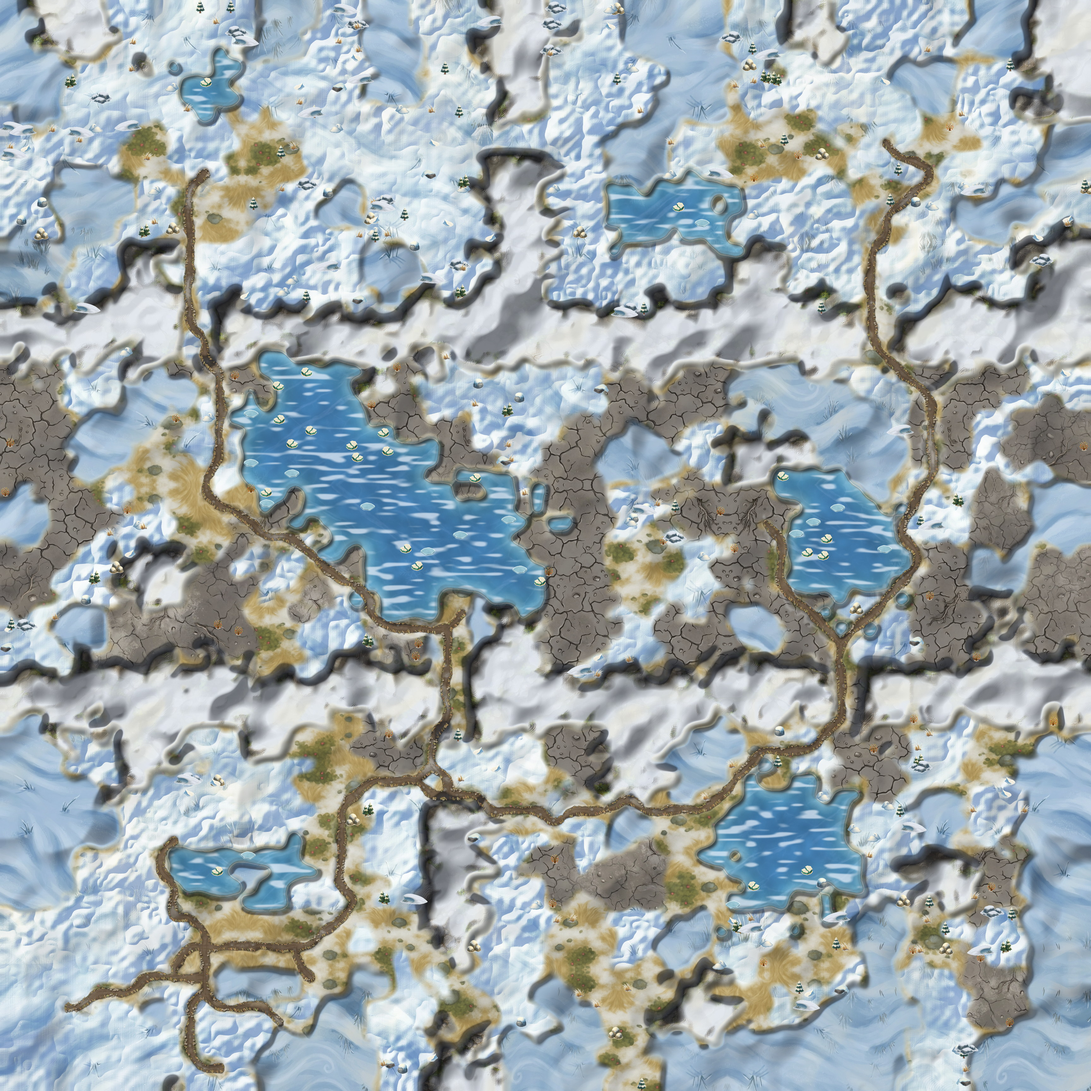
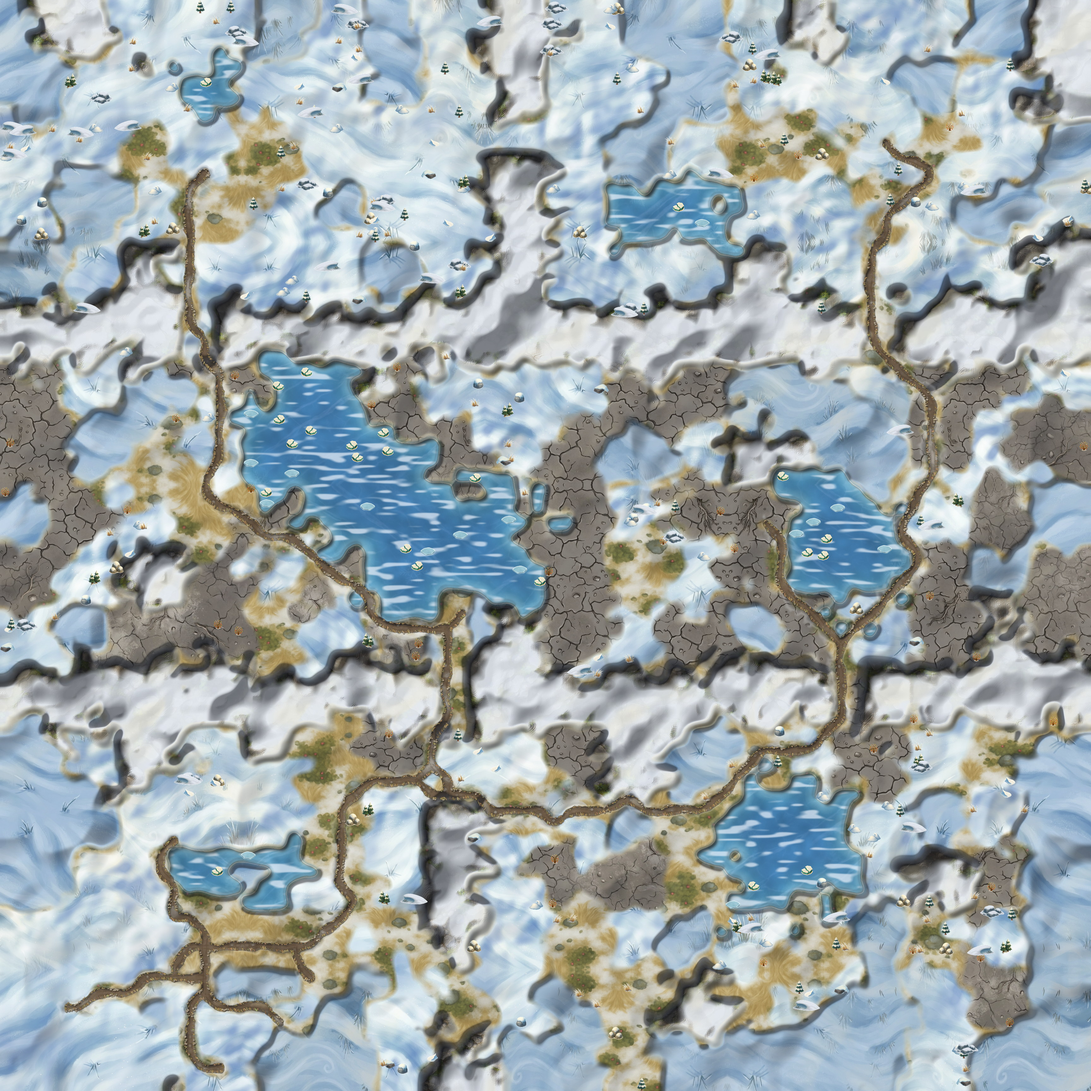
Ilustracje kampanii i wyniku z OpenAI (wsad)
Claude-Session: https://claude.ai/code/session_01Qu47Qn6gy3U54smkJJnCXL

diff --git a/src/data/plansza-teren-twierdza.ts b/src/data/plansza-teren-twierdza.ts
@@ -424,7 +424,8 @@ export const USTAWIENIA = {
   "osadzZnajdzki": 0.2,
   "skalaStrazy": 1.2,
   "bezOzdobTrawy": true,
-  "skalaZamku": 1.8,
+  "skalaZamku": 1.5,
+  "skalaBudowli": 1.3,
   "skalaKepLasu": 0.76,
   "cienBudowli": {
     "szer": 0.7,

diff --git a/tools/teren_efekty.py b/tools/teren_efekty.py
@@ -32,7 +32,8 @@ def _obraz(tab: np.ndarray) -> Image.Image:
     return Image.fromarray(tab.clip(0, 255).astype(np.uint8), 'RGB')
 
 
-def zaspy(warstwa: Image.Image, kafel: int, ziarno: int, zmienne: bool = False) -> Image.Image:
+def zaspy(warstwa: Image.Image, kafel: int, ziarno: int, zmienne: bool = False,
+          gladkie: bool = False) -> Image.Image:
     """Śnieg z RZEŹBĄ: zaspy oświetlone z lewej góry, cienie niebieskie, iskry.
 
     Płaska biel wygląda jak mgła, bo nie ma w niej nic, co mówi „powierzchnia".
@@ -52,8 +53,17 @@ def zaspy(warstwa: Image.Image, kafel: int, ziarno: int, zmienne: bool = False) 
         # nimi wały w skali kilku pól.
         duze = szum(W, H, max(2, int(kafel * 4.5)), ziarno + 5)
         h = h * (0.25 + 0.75 * np.clip(duze * 1.4 + 0.5, 0, 1)) + szum(W, H, max(2, int(kafel * 2.6)), ziarno + 6) * 0.9
+    if gladkie:
+        # Twierdza, runda 11: „śnieg jednolicie szumiący i plamisty". Szum
+        # przechodzi przez 8-bitowy obrazek, więc pochodna wysokości miała
+        # schodki — drobna kratka jak płótno na całym polu śniegu — a grzbiety
+        # w skali pola dawały plamy. Wysokość wygładzona na liczbach
+        # zmiennoprzecinkowych, drobne fałdy słabsze: rzeźbę niosą długie
+        # wały w skali kilku pól i malowane zawieje tekstury.
+        from scipy.ndimage import gaussian_filter
+        h = gaussian_filter(h, kafel * 0.22)
     gy, gx = np.gradient(h)
-    swiatlo = -(gx + gy) * kafel * 0.9
+    swiatlo = -(gx + gy) * kafel * (0.9 if not gladkie else 0.75)
     swiatlo = np.clip(swiatlo, -1, 1)[..., None]
     tab = _tab(warstwa)
     if zmienne:
@@ -667,7 +677,7 @@ def brzeg_wody(plansza: Image.Image, maska_wody: Image.Image, kafel: int, ziarno
 
 def droga_obrzeze(plansza: Image.Image, maska_drogi: Image.Image, kafel: int, ziarno: int,
                   kamyki: float = 1.0, trawa: float = 1.0, pobocze=(92, 78, 40),
-                  barwy_trawy=None, wal: float = 0.0) -> Image.Image:
+                  barwy_trawy=None, wal: float = 0.0, skarpa: float = 0.0) -> Image.Image:
     """Malowane obrzeże traktu: przygaszony skraj jezdni, wydeptana trawa
     z ciemnym konturem, kamyki i kępki trawy wchodzące na drogę (Polana,
     runda 8).
@@ -691,6 +701,26 @@ def droga_obrzeze(plansza: Image.Image, maska_drogi: Image.Image, kafel: int, zi
     kraj = np.clip(1 - d_in / (kafel * 0.13), 0, 1) * droga
     kraj = gaussian_filter(kraj.astype(np.float32), 1.0)[..., None]
     tab = tab * (1 - kraj * 0.28) + np.array([60, 40, 22]) * kraj * 0.06
+    # Twierdza, runda 11 (`skarpa` > 0; domyślnie brak): „drogi to płaskie
+    # brązowe wstęgi bez krawędzi i spadków". Trakt wcięty w śnieg: brzeg od
+    # strony światła (lewa góra) rzuca na jezdnię sini cień, przeciwległa
+    # ścianka wykopu jaśnieje — jak koleina widziana z góry.
+    if skarpa > 0:
+        gl = gaussian_filter((d_in - d_out).astype(np.float32), 2.0)
+        sy, sx = np.gradient(gl)
+        # Normalna w głąb drogi; > 0, gdy krawędź leży po stronie światła.
+        ku_sw = np.clip((sx + sy) * 1.4, -1, 1)
+        pas_in = np.clip(1 - d_in / (kafel * 0.2), 0, 1) ** 1.3 * droga
+        pas_in = gaussian_filter(pas_in.astype(np.float32), 1.0)
+        cien_s = (pas_in * np.clip(ku_sw, 0, 1))[..., None] * skarpa
+        blask = (pas_in * np.clip(-ku_sw, 0, 1))[..., None] * skarpa
+        tab = tab * (1 - cien_s * 0.42) + np.array([40, 52, 90]) * cien_s * 0.12
+        tab = tab + (np.array([236, 226, 206]) - tab) * blask * 0.28
+        # Na zewnątrz, po stronie cienia, śnieżna krawędź wykopu jaśnieje.
+        pas_out = np.clip(1 - d_out / (kafel * 0.1), 0, 1) * (~droga)
+        pas_out = gaussian_filter(pas_out.astype(np.float32), 1.0)
+        rant = (pas_out * np.clip(-ku_sw, 0, 1))[..., None] * skarpa
+        tab = tab + (np.array([252, 253, 255]) - tab) * rant * 0.35
     # Wydeptane pobocze: trawa ciemniejsza i bardziej brunatna, pas nierówny.
     szer = kafel * 0.16 * np.clip(0.5 + n * 1.2, 0.2, 1.6)
     pob = gaussian_filter(((~droga) & (d_out <= szer)).astype(np.float32), 1.2)

diff --git a/tools/mapy/twierdza.py b/tools/mapy/twierdza.py
@@ -556,7 +556,12 @@ USTAWIENIA = {
     'bezOzdobTrawy': True,
     # Runda 9 (HotA): „zamek ledwie większy od chaty i młyna — powiększyć
     # co najmniej dwa razy; twierdza ma dominować nad lasem jak siedziba".
-    'skalaZamku': 1.8,
+    # Runda 11 (HotA): „zamek kilka razy większy od bohatera i młyna, wiatrak
+    # mniejszy od chaty obok — skala się nie trzyma". Zamek o jedną szóstą
+    # niżej (dalej największy w kadrze), budowle o 30% wyżej: wiatrak nad
+    # spichlerzem, jak w HotA (młyn ≈ 3 pola, zamek ≈ 4,5).
+    'skalaZamku': 1.5,
+    'skalaBudowli': 1.3,
     # Runda 9 (HotA): „świerki w prawej dolnej ćwiartce wyższe od zamku i młyna
     # — drzewa do skali kafla". Kępy boru (nowe rysunki: zwarty masyw małych
     # świerków, PROMPTY-PLANSZE §3) rysowane mniejsze, stopa na miejscu.
@@ -638,7 +643,9 @@ WODA_ANIMOWANA = False
 #: droga z brzegiem, las w zwartych masach, gęsty pierwszy ekran.
 #: Runda 3: bez efektu `lod` — jego rysy na turkusowym lodzie (`lod-2`) znów
 #: czytały się jak „błyskawice"; tekstura ma własne, delikatne pęknięcia.
-EFEKTY = ['zaspy', 'zaspy_zmienne', 'relief_sniezny', 'bez_placow', 'lod_tafla', 'droga_obrzeze']
+#: Runda 11: „śnieg jednolicie szumiący i plamisty, bez rzeźby" — wysokość
+#: zasp wygładzona (bez kratki z 8-bitowego szumu), drobne plamy słabsze.
+EFEKTY = ['zaspy', 'zaspy_zmienne', 'zaspy_gladkie', 'relief_sniezny', 'bez_placow', 'lod_tafla', 'droga_obrzeze']
 TEKSTURY = {'woda': ['lod-2', 'lod', 'snieg'], 'trawa': ['tundra', 'snieg-2', 'snieg'], 'las': ['snieg'],
             'sciezka': ['droga-snieg', 'sciezka']}
 SKUP_LAS = True
@@ -752,4 +759,8 @@ DROGA_OBRZEZE = {
     'trawa': 0.7,
     'kamyki': 1.2,
     'wal': 1.0,
+    # Runda 11: „drogi to płaskie brązowe wstęgi bez krawędzi i spadków" —
+    # trakt wcięty w śnieg: cień pod brzegiem od strony światła, jasna ścianka
+    # naprzeciw.
+    'skarpa': 1.0,
 }

diff --git a/tools/render_mapa.py b/tools/render_mapa.py
@@ -318,7 +318,8 @@ def klatka() -> tuple[Image.Image, Image.Image]:
         # falowałyby w tym samym rytmie i widać by było jeden wzór.
         m = maska(pola(znaki), KAFEL, wtapianie, poszarpanie, ZIARNO + n)
         if nazwa == 'snieg' and 'zaspy' in EFEKTY:
-            warstwa = teren_efekty.zaspy(warstwa, KAFEL, ZIARNO + 700, zmienne='zaspy_zmienne' in EFEKTY)
+            warstwa = teren_efekty.zaspy(warstwa, KAFEL, ZIARNO + 700, zmienne='zaspy_zmienne' in EFEKTY,
+                                         gladkie='zaspy_gladkie' in EFEKTY)
         if nazwa == 'skaly' and ('relief' in EFEKTY or 'relief_sniezny' in EFEKTY):
             warstwa = teren_efekty.relief(warstwa, m, KAFEL, ZIARNO + 730, 'relief_sniezny' in EFEKTY)
         if nazwa == 'woda' and 'lod' in EFEKTY:
